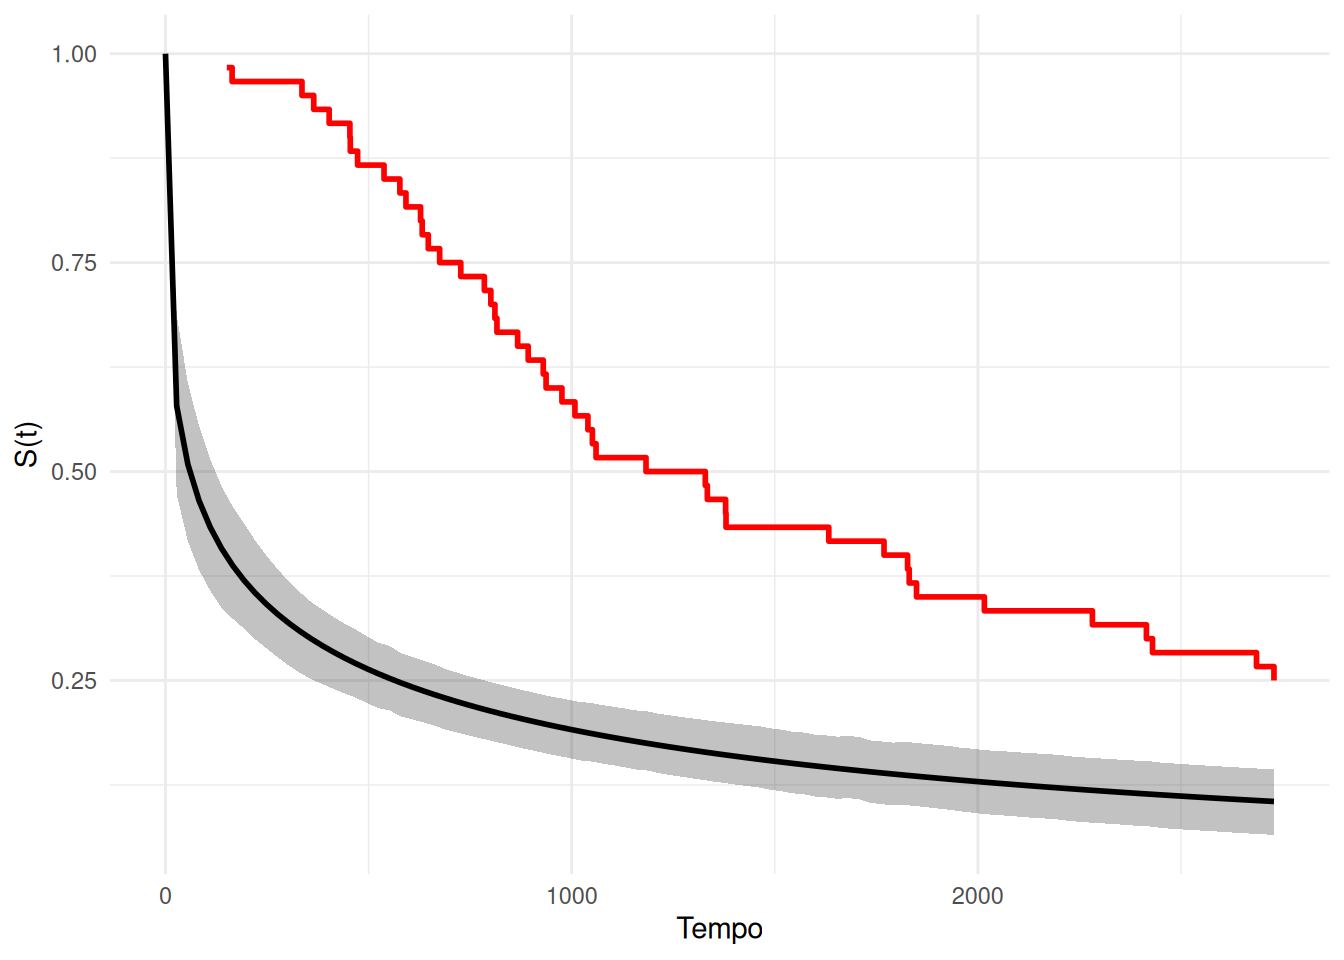
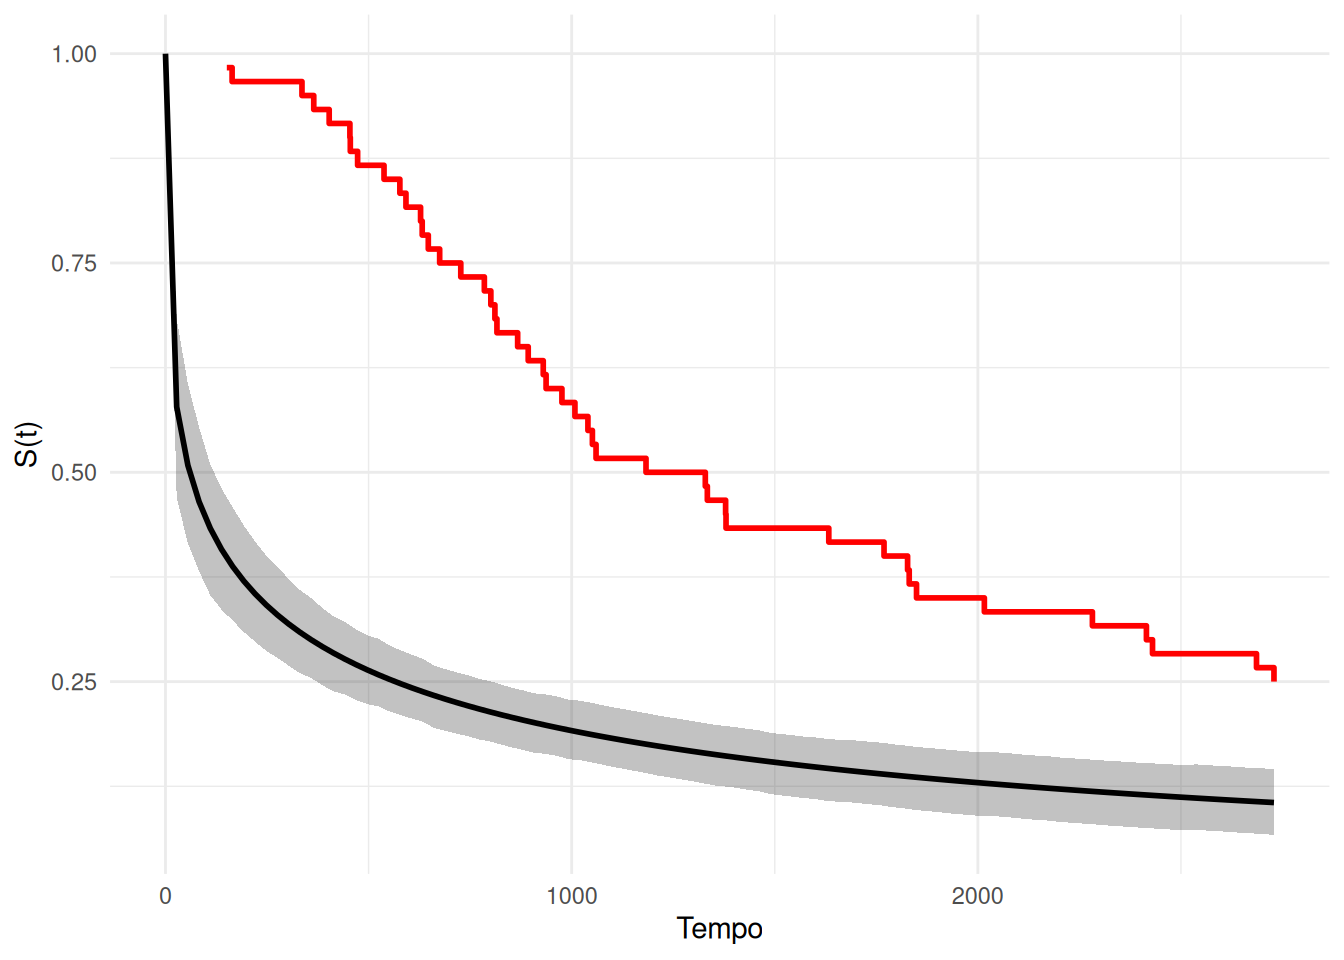
Built site for gh-pages

diff --git a/pred.html b/pred.html
@@ -326,8 +326,8 @@ div.csl-indent {
 <pre><code> [1] ""                                                                                         
  [2] "SAMPLING FOR MODEL 'GLM_pred' NOW (CHAIN 1)."                                             
  [3] "Chain 1: "                                                                                
- [4] "Chain 1: Gradient evaluation took 0.000119 seconds"                                       
- [5] "Chain 1: 1000 transitions using 10 leapfrog steps per transition would take 1.19 seconds."
+ [4] "Chain 1: Gradient evaluation took 0.000123 seconds"                                       
+ [5] "Chain 1: 1000 transitions using 10 leapfrog steps per transition would take 1.23 seconds."
  [6] "Chain 1: Adjust your expectations accordingly!"                                           
  [7] "Chain 1: "                                                                                
  [8] "Chain 1: "                                                                                
@@ -340,7 +340,7 @@ div.csl-indent {
 [15] "Chain 1: Iteration: 1001 / 2000 [ 50%]  (Sampling)"                                       </code></pre>
 </div>
 </div>
-<div class="cell">
+<div class="cell" data-layout-align="center">
 <details class="code-fold">
 <summary>Código</summary>
 <div class="code-copy-outer-scaffold"><div class="sourceCode cell-code" id="cb8"><pre class="sourceCode r code-with-copy"><code class="sourceCode r"><span id="cb8-1"><a href="#cb8-1" aria-hidden="true" tabindex="-1"></a>estudantes_teste <span class="sc">|&gt;</span></span>
@@ -351,9 +351,9 @@ div.csl-indent {
 <span id="cb8-6"><a href="#cb8-6" aria-hidden="true" tabindex="-1"></a>  <span class="fu">with</span>(<span class="fu">boxplot</span>(mu_pred <span class="sc">~</span> pass))</span></code></pre></div><button title="Copiar para a área de transferência" class="code-copy-button"><i class="bi"></i></button></div>
 </details>
 <div class="cell-output-display">
-<div>
+<div class="quarto-figure quarto-figure-center">
 <figure class="figure">
-<p><img src="pred_files/figure-html/unnamed-chunk-9-1.png" class="img-fluid figure-img" width="672"></p>
+<p><img src="pred_files/figure-html/unnamed-chunk-9-1.png" class="img-fluid quarto-figure quarto-figure-center figure-img" style="width:70.0%"></p>
 </figure>
 </div>
 </div>
@@ -529,8 +529,8 @@ div.csl-indent {
 <pre><code> [1] ""                                                                                         
  [2] "SAMPLING FOR MODEL 'FA_pred' NOW (CHAIN 1)."                                              
  [3] "Chain 1: "                                                                                
- [4] "Chain 1: Gradient evaluation took 5.3e-05 seconds"                                        
- [5] "Chain 1: 1000 transitions using 10 leapfrog steps per transition would take 0.53 seconds."
+ [4] "Chain 1: Gradient evaluation took 5.4e-05 seconds"                                        
+ [5] "Chain 1: 1000 transitions using 10 leapfrog steps per transition would take 0.54 seconds."
  [6] "Chain 1: Adjust your expectations accordingly!"                                           
  [7] "Chain 1: "                                                                                
  [8] "Chain 1: "                                                                                
@@ -570,28 +570,25 @@ div.csl-indent {
 <span id="cb15-22"><a href="#cb15-22" aria-hidden="true" tabindex="-1"></a>    <span class="at">hpd_contem =</span> (valor_real <span class="sc">&gt;=</span> hpd_inf) <span class="sc">&amp;</span> (valor_real <span class="sc">&lt;=</span> hpd_sup),</span>
 <span id="cb15-23"><a href="#cb15-23" aria-hidden="true" tabindex="-1"></a>    <span class="at">hpd_amp =</span> hpd_sup <span class="sc">-</span> hpd_inf</span>
 <span id="cb15-24"><a href="#cb15-24" aria-hidden="true" tabindex="-1"></a>  ) <span class="sc">|&gt;</span></span>
-<span id="cb15-25"><a href="#cb15-25" aria-hidden="true" tabindex="-1"></a>  <span class="fu">select</span>(<span class="sc">-</span><span class="fu">c</span>(linha, id_pred))</span>
-<span id="cb15-26"><a href="#cb15-26" aria-hidden="true" tabindex="-1"></a>  </span>
-<span id="cb15-27"><a href="#cb15-27" aria-hidden="true" tabindex="-1"></a><span class="fu">hist</span>(cv<span class="sc">$</span>vr)</span></code></pre></div><button title="Copiar para a área de transferência" class="code-copy-button"><i class="bi"></i></button></div>
+<span id="cb15-25"><a href="#cb15-25" aria-hidden="true" tabindex="-1"></a>  <span class="fu">select</span>(<span class="sc">-</span><span class="fu">c</span>(linha, id_pred))</span></code></pre></div><button title="Copiar para a área de transferência" class="code-copy-button"><i class="bi"></i></button></div>
 </details>
+</div>
+<div class="cell" data-layout-align="center">
+<div class="code-copy-outer-scaffold"><div class="sourceCode cell-code" id="cb16"><pre class="sourceCode r code-with-copy"><code class="sourceCode r"><span id="cb16-1"><a href="#cb16-1" aria-hidden="true" tabindex="-1"></a><span class="fu">hist</span>(cv<span class="sc">$</span>vr)</span></code></pre></div><button title="Copiar para a área de transferência" class="code-copy-button"><i class="bi"></i></button></div>
 <div class="cell-output-display">
-<div>
+<div class="quarto-figure quarto-figure-center">
 <figure class="figure">
-<p><img src="pred_files/figure-html/unnamed-chunk-16-1.png" class="img-fluid figure-img" width="672"></p>
+<p><img src="pred_files/figure-html/unnamed-chunk-17-1.png" class="img-fluid quarto-figure quarto-figure-center figure-img" style="width:60.0%"></p>
 </figure>
 </div>
 </div>
-<details class="code-fold">
-<summary>Código</summary>
-<div class="code-copy-outer-scaffold"><div class="sourceCode cell-code" id="cb16"><pre class="sourceCode r code-with-copy"><code class="sourceCode r"><span id="cb16-1"><a href="#cb16-1" aria-hidden="true" tabindex="-1"></a><span class="fu">mean</span>(<span class="dv">100</span><span class="sc">*</span>cv<span class="sc">$</span>hpd_contem)</span></code></pre></div><button title="Copiar para a área de transferência" class="code-copy-button"><i class="bi"></i></button></div>
-</details>
+</div>
+<div class="cell">
+<div class="code-copy-outer-scaffold"><div class="sourceCode cell-code" id="cb17"><pre class="sourceCode r code-with-copy"><code class="sourceCode r"><span id="cb17-1"><a href="#cb17-1" aria-hidden="true" tabindex="-1"></a><span class="fu">mean</span>(<span class="dv">100</span><span class="sc">*</span>cv<span class="sc">$</span>hpd_contem)</span></code></pre></div><button title="Copiar para a área de transferência" class="code-copy-button"><i class="bi"></i></button></div>
 <div class="cell-output cell-output-stdout">
 <pre><code>[1] 95.16129</code></pre>
 </div>
-<details class="code-fold">
-<summary>Código</summary>
-<div class="code-copy-outer-scaffold"><div class="sourceCode cell-code" id="cb18"><pre class="sourceCode r code-with-copy"><code class="sourceCode r"><span id="cb18-1"><a href="#cb18-1" aria-hidden="true" tabindex="-1"></a><span class="fu">mean</span>(cv<span class="sc">$</span>hpd_amp)</span></code></pre></div><button title="Copiar para a área de transferência" class="code-copy-button"><i class="bi"></i></button></div>
-</details>
+<div class="code-copy-outer-scaffold"><div class="sourceCode cell-code" id="cb19"><pre class="sourceCode r code-with-copy"><code class="sourceCode r"><span id="cb19-1"><a href="#cb19-1" aria-hidden="true" tabindex="-1"></a><span class="fu">mean</span>(cv<span class="sc">$</span>hpd_amp)</span></code></pre></div><button title="Copiar para a área de transferência" class="code-copy-button"><i class="bi"></i></button></div>
 <div class="cell-output cell-output-stdout">
 <pre><code>[1] 2.766757</code></pre>
 </div>

diff --git a/models.html b/models.html
@@ -770,24 +770,24 @@ $lp__
 <div class="cell-output cell-output-stdout">
 <pre><code>$alpha
          media   mediana   hpd_min   hpd_max
-[1,] 0.3103165 0.3070186 0.2110438 0.4114113
+[1,] 0.3098159 0.3077788 0.2146967 0.4111663
 
 $sigma
-        media mediana  hpd_min  hpd_max
-[1,] 197.3501 192.499 97.91822 306.8158
+        media  mediana  hpd_min  hpd_max
+[1,] 197.5285 192.8908 99.04346 313.7838
 
 $S
          media   mediana   hpd_min   hpd_max
 [1,] 1.0000000 1.0000000 1.0000000 1.0000000
-[2,] 0.5784337 0.5763747 0.4726282 0.6869829
-[3,] 0.5085178 0.5053645 0.4164624 0.6059769
-[4,] 0.4649896 0.4616716 0.3822090 0.5543057
-[5,] 0.4332026 0.4300737 0.3571977 0.5148695
-[6,] 0.4081665 0.4050581 0.3371756 0.4823875
+[2,] 0.5781515 0.5760642 0.4691686 0.6833043
+[3,] 0.5083205 0.5055259 0.4154227 0.6055278
+[4,] 0.4648525 0.4618033 0.3819547 0.5537394
+[5,] 0.4331124 0.4302972 0.3531340 0.5093970
+[6,] 0.4081147 0.4055092 0.3360931 0.4807493
 
 $lp__
          media   mediana   hpd_min   hpd_max
-[1,] -465.7964 -465.4821 -467.8791 -464.8255</code></pre>
+[1,] -465.8261 -465.5247 -467.8207 -464.8248</code></pre>
 </div>
 </div>
 <div class="cell">
@@ -1116,8 +1116,8 @@ $lp__
 <pre><code> [1] ""                                                                                         
  [2] "SAMPLING FOR MODEL 'FA' NOW (CHAIN 1)."                                                   
  [3] "Chain 1: "                                                                                
- [4] "Chain 1: Gradient evaluation took 4.8e-05 seconds"                                        
- [5] "Chain 1: 1000 transitions using 10 leapfrog steps per transition would take 0.48 seconds."
+ [4] "Chain 1: Gradient evaluation took 4.7e-05 seconds"                                        
+ [5] "Chain 1: 1000 transitions using 10 leapfrog steps per transition would take 0.47 seconds."
  [6] "Chain 1: Adjust your expectations accordingly!"                                           
  [7] "Chain 1: "                                                                                
  [8] "Chain 1: "                                                                                
